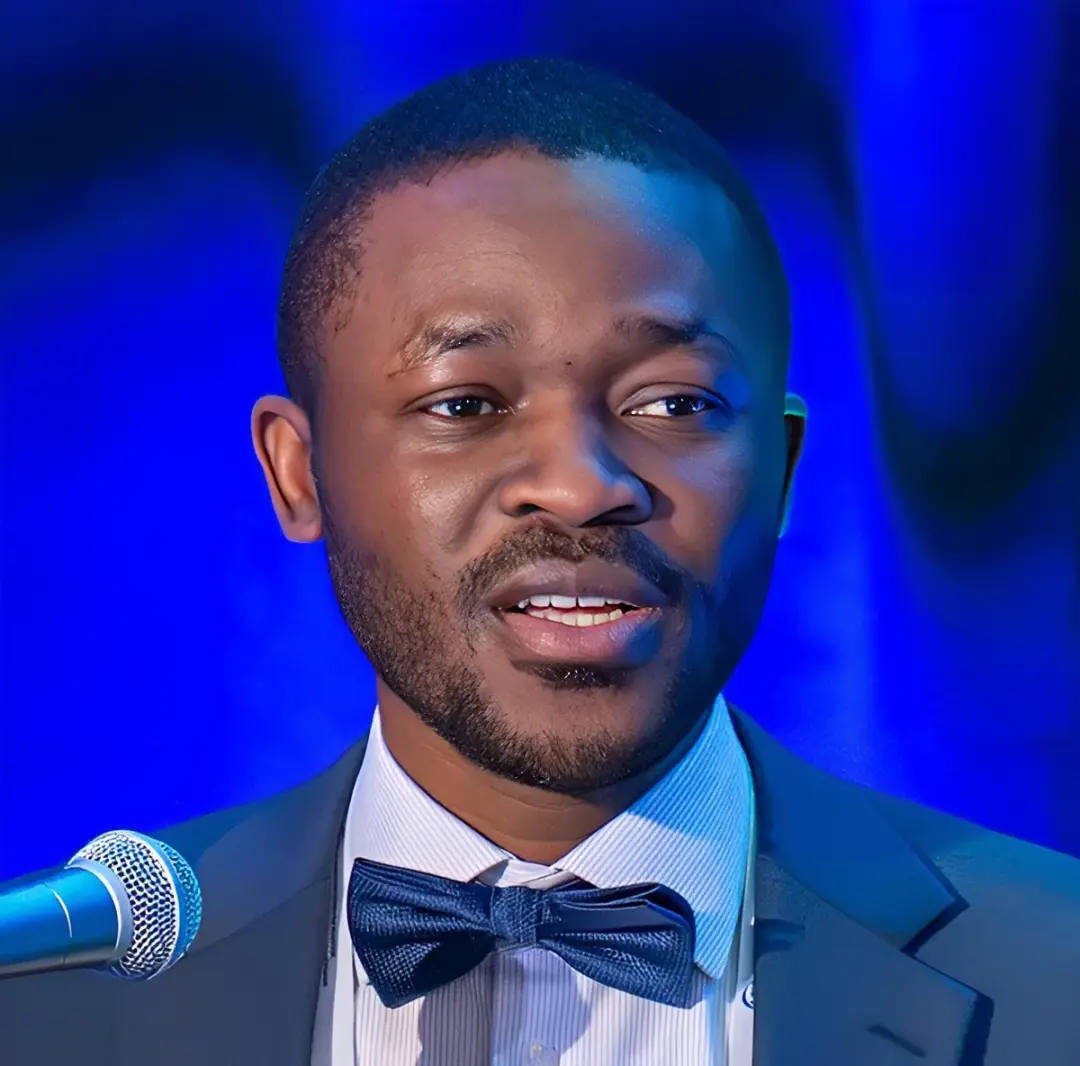
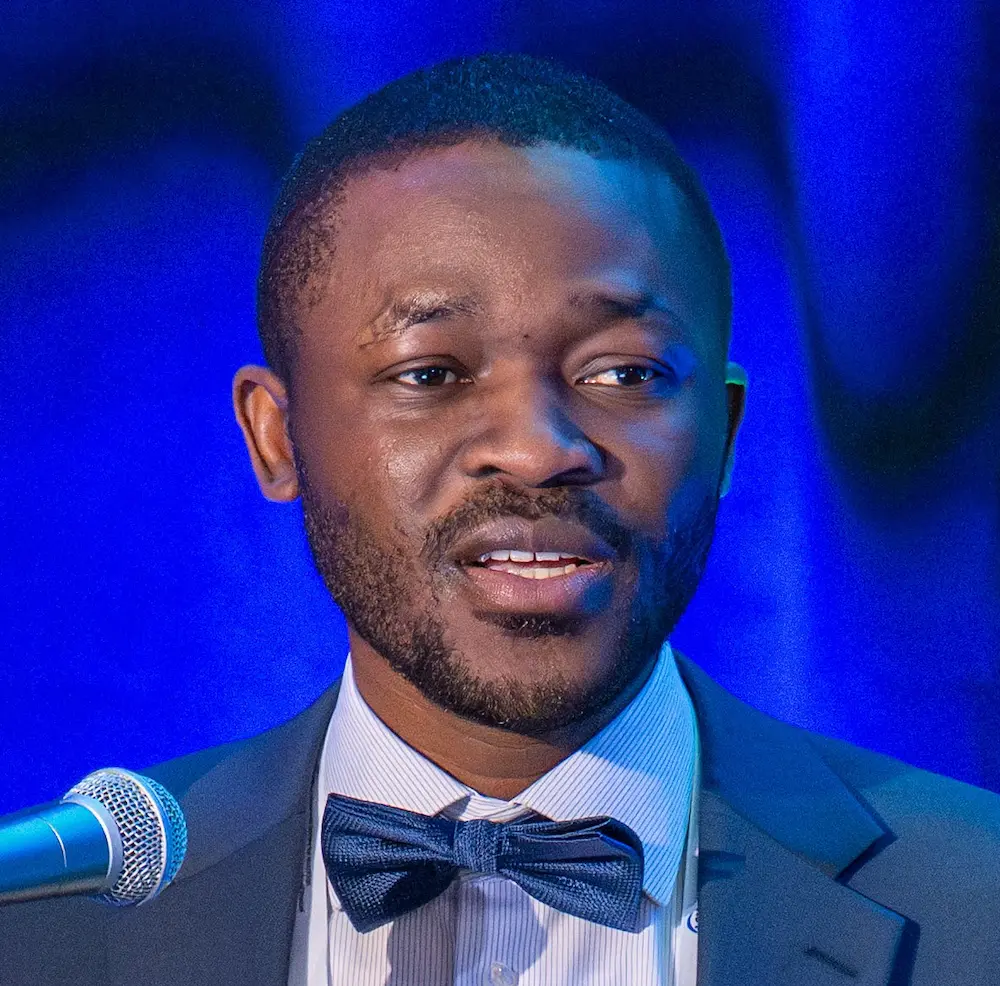
`feat(teachers): add gemstone images to teacher cards and modals`

diff --git a/src/components/card/TeacherCard.tsx b/src/components/card/TeacherCard.tsx
@@ -1,4 +1,5 @@
 import type { TeacherWithCourse } from '@/types/teacher'
+import { GEM_IMAGE_MAP } from '@/utils/gems'
 
 function getInitials(fullName: string): string {
   const names = fullName.trim().split(' ')
@@ -13,9 +14,23 @@ type TeacherCardProps = {
   onClick: () => void
 }
 
+const COURSE_ORDER_THEMES: Record<number, string> = {
+  1: 'Ground',
+  2: 'Foundation',
+  3: 'Walls',
+  4: 'Framing',
+  5: 'Interior',
+  6: 'Roof',
+}
+
 export function TeacherCard({ teacher, onClick }: TeacherCardProps) {
   const initials = getInitials(teacher.fullName)
-  const topLabel = teacher.course?.title ?? teacher.lecturerTitle ?? undefined
+  const topLabel =
+    (teacher.course?.orderIndex != null
+      ? COURSE_ORDER_THEMES[teacher.course.orderIndex]
+      : undefined) ??
+    teacher.lecturerTitle ??
+    undefined
 
   return (
     <div
@@ -57,9 +72,18 @@ export function TeacherCard({ teacher, onClick }: TeacherCardProps) {
       {/* Bottom: teacher name */}
       <div className="absolute inset-x-0 bottom-5 z-20 flex flex-col items-center gap-2 px-4">
         <div className="h-px w-7 bg-[#C5A05988]" />
-        <h3 className="text-center font-serif text-base leading-tight text-[#F8F4EC] italic sm:text-lg">
-          {teacher.fullName}
-        </h3>
+        <div className="flex items-center gap-2">
+          {teacher.gemstone && GEM_IMAGE_MAP[teacher.gemstone] && (
+            <img
+              src={GEM_IMAGE_MAP[teacher.gemstone]}
+              alt={teacher.gemstone}
+              className="size-8 object-contain drop-shadow-[0_2px_8px_rgba(0,0,0,0.5)]"
+            />
+          )}
+          <h3 className="text-center font-serif text-base leading-tight text-[#F8F4EC] italic sm:text-lg">
+            {teacher.fullName}
+          </h3>
+        </div>
       </div>
     </div>
   )

diff --git a/src/utils/gems.ts b/src/utils/gems.ts
@@ -1,0 +1,27 @@
+import amethystGem from '@/assets/images/gems/amethyst.webp'
+import berylGem from '@/assets/images/gems/beryl.webp'
+import chalcedonyGem from '@/assets/images/gems/chalcedony.webp'
+import chrysoprasusGem from '@/assets/images/gems/chrysoprasus.webp'
+import emeraldGem from '@/assets/images/gems/emerald.webp'
+import jacinthGem from '@/assets/images/gems/jacinth.webp'
+import jasperGem from '@/assets/images/gems/jasper.webp'
+import sapphireGem from '@/assets/images/gems/sapphire.webp'
+import sardiusGem from '@/assets/images/gems/sardius.webp'
+import sardonyxGem from '@/assets/images/gems/sardonyx.webp'
+import topazGem from '@/assets/images/gems/topaz.webp'
+import chrysolyteGem from '@/assets/images/gems/chrysolyte.webp'
+
+export const GEM_IMAGE_MAP: Record<string, string> = {
+  amethyst: amethystGem,
+  beryl: berylGem,
+  chalcedony: chalcedonyGem,
+  chrysoprasus: chrysoprasusGem,
+  emerald: emeraldGem,
+  jacinth: jacinthGem,
+  jasper: jasperGem,
+  sapphire: sapphireGem,
+  sardius: sardiusGem,
+  sardonyx: sardonyxGem,
+  topaz: topazGem,
+  chrysolite: chrysolyteGem,
+}

diff --git a/src/components/dialog/TeacherModal.tsx b/src/components/dialog/TeacherModal.tsx
@@ -8,6 +8,7 @@ import {
   DialogHeader,
 } from '@/components/ui/dialog'
 import facultyBackground from '@/assets/images/bg/bg_lecturers.webp'
+import { GEM_IMAGE_MAP } from '@/utils/gems'
 
 type TeacherModalProps = {
   teacher: TeacherWithCourse | null
@@ -102,9 +103,18 @@ export function TeacherModal({
                 {/* Name and role */}
                 <div>
                   <div className="h-px w-12 bg-[#C5A059]/50" />
-                  <h3 className="mt-5 font-serif text-[clamp(3rem,7vw,5.4rem)] leading-[0.88] tracking-[-0.06em] text-[#F8F4EC]">
-                    about me
-                  </h3>
+                  <div className="mt-5 flex items-end gap-4">
+                    {teacher.gemstone && GEM_IMAGE_MAP[teacher.gemstone] && (
+                      <img
+                        src={GEM_IMAGE_MAP[teacher.gemstone]}
+                        alt={teacher.gemstone}
+                        className="size-16 object-contain drop-shadow-[0_2px_12px_rgba(0,0,0,0.6)]"
+                      />
+                    )}
+                    <h3 className="font-serif text-[clamp(3rem,7vw,5.4rem)] leading-[0.88] tracking-[-0.06em] text-[#F8F4EC]">
+                      about me
+                    </h3>
+                  </div>
                 </div>
 
                 {/* Bio */}

diff --git a/src/components/landing/lecturers.tsx b/src/components/landing/lecturers.tsx
@@ -13,6 +13,7 @@ import mahiImage from '@/assets/images/lecturers/mahi.webp'
 import sadeImage from '@/assets/images/lecturers/sade.webp'
 import obiImage from '@/assets/images/lecturers/obi.webp'
 import ugoImage from '@/assets/images/lecturers/ugo.webp'
+import { GEM_IMAGE_MAP } from '@/utils/gems'
 import {
   LandingActiveItemNav,
   LandingFeaturePanel,
@@ -292,9 +293,18 @@ function GemLecturerCard({
       >
         <div className="flex h-full flex-col justify-end gap-1.5 px-3 pb-4">
           <div className="h-px w-7 bg-white/20" />
-          <h3 className="font-serif text-xl leading-tight text-white italic">
-            {teacher.fullName}
-          </h3>
+          <div className="flex items-center gap-2">
+            {teacher.gemstone && GEM_IMAGE_MAP[teacher.gemstone] && (
+              <img
+                src={GEM_IMAGE_MAP[teacher.gemstone]}
+                alt={teacher.gemstone}
+                className="size-12 object-contain drop-shadow-[0_2px_8px_rgba(0,0,0,0.5)]"
+              />
+            )}
+            <h3 className="font-serif text-xl leading-tight text-white italic">
+              {teacher.fullName}
+            </h3>
+          </div>
           {teacher.bio && (
             <p className="text-sm leading-[1.6] text-white/75">{teacher.bio}</p>
           )}